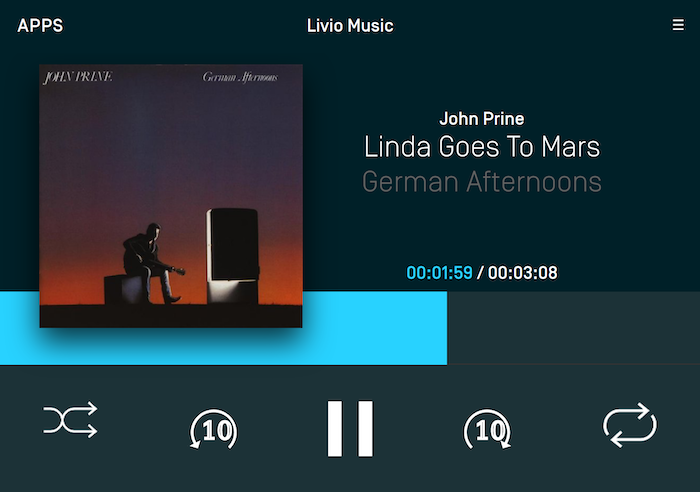
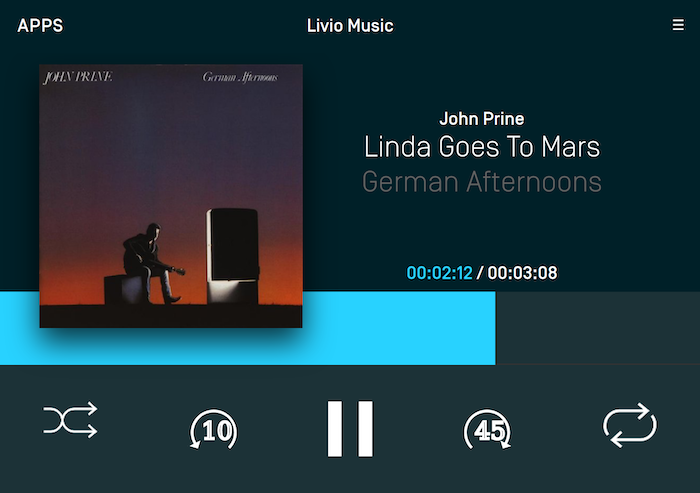
Java code snippets update + Image

diff --git a/docs/Displaying a User Interface/Media Clock/index.md b/docs/Displaying a User Interface/Media Clock/index.md
@@ -74,7 +74,6 @@ sdlManager.send(mediaClock)
 
 @![android, javaSE, javaEE]
 ```java
-// TODO: Update constructor?
 SetMediaClockTimer mediaClock = new SetMediaClockTimer().countDownFromStartTimeInterval(600, 0, AudioStreamingIndicator.PAUSE);
 sdlManager.sendRPC(mediaClock);
 ```
@@ -143,7 +142,6 @@ sdlManager.sendRPC(mediaClock);
 ```
 
 ```java
-// TODO: Update constructor?
 SetMediaClockTimer mediaClock = new SetMediaClockTimer().resumeWithPlayPauseIndicator(AudioStreamingIndicator.PAUSE);
 sdlManager.sendRPC(mediaClock);
 ```
@@ -262,7 +260,11 @@ sdlManager.send(mediaClock)
 
 @![android, javaSE, javaEE]
 ```java
-// TODO: Add code example that sets backSeekIndicator and forwardSeekIndicator in for type TRACK
+SetMediaClockTimer mediaClock = new SetMediaClockTimer().countUpFromStartTimeInterval(0, 300, AudioStreamingIndicator.PAUSE);
+SeekStreamingIndicator trackStyle = new SeekStreamingIndicator(SeekIndicatorType.TRACK);
+mediaClock.setForwardSeekIndicator(trackStyle);
+mediaClock.setBackSeekIndicator(trackStyle);
+sdlManager.sendRPC(mediaClock);
 ```
 !@
 
@@ -306,7 +308,14 @@ sdlManager.send(mediaClock)
 
 @![android, javaSE, javaEE]
 ```java
-// TODO: Add code example that sets backSeekIndicator and forwardSeekIndicator in for type TIME
+SetMediaClockTimer mediaClock = new SetMediaClockTimer().countUpFromStartTimeInterval(0, 300, AudioStreamingIndicator.PAUSE);
+SeekStreamingIndicator seek45Style = new SeekStreamingIndicator(SeekIndicatorType.TIME);
+seek45Style.setSeekTime(45);
+SeekStreamingIndicator seek10Style = new SeekStreamingIndicator(SeekIndicatorType.TIME);
+seek10Style.setSeekTime(10);
+mediaClock.setForwardSeekIndicator(seek45Style);
+mediaClock.setBackSeekIndicator(seek10Style);
+sdlManager.sendRPC(mediaClock);
 ```
 !@
 
